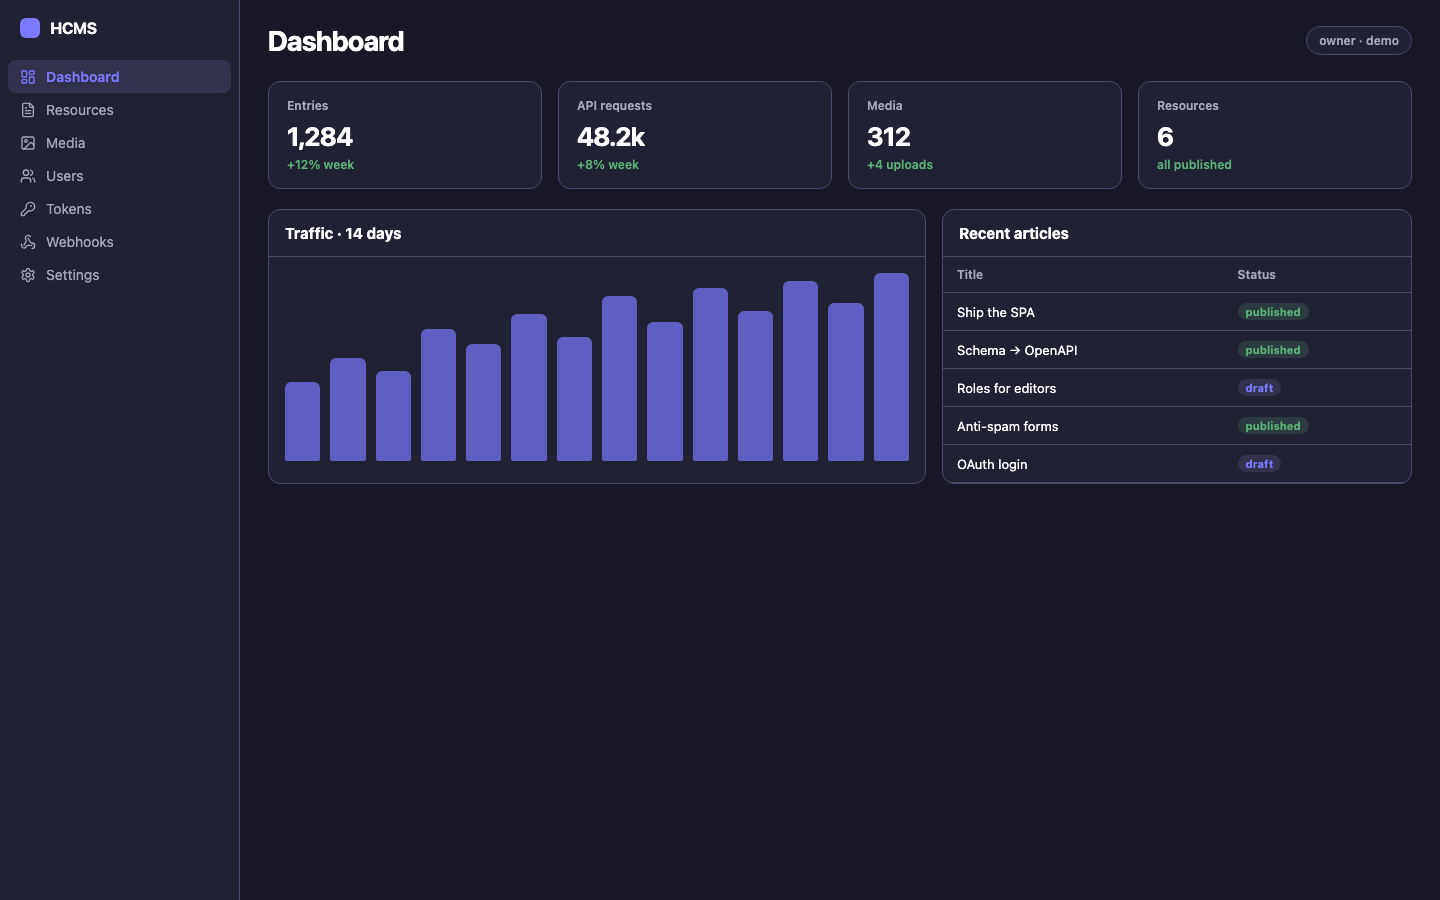
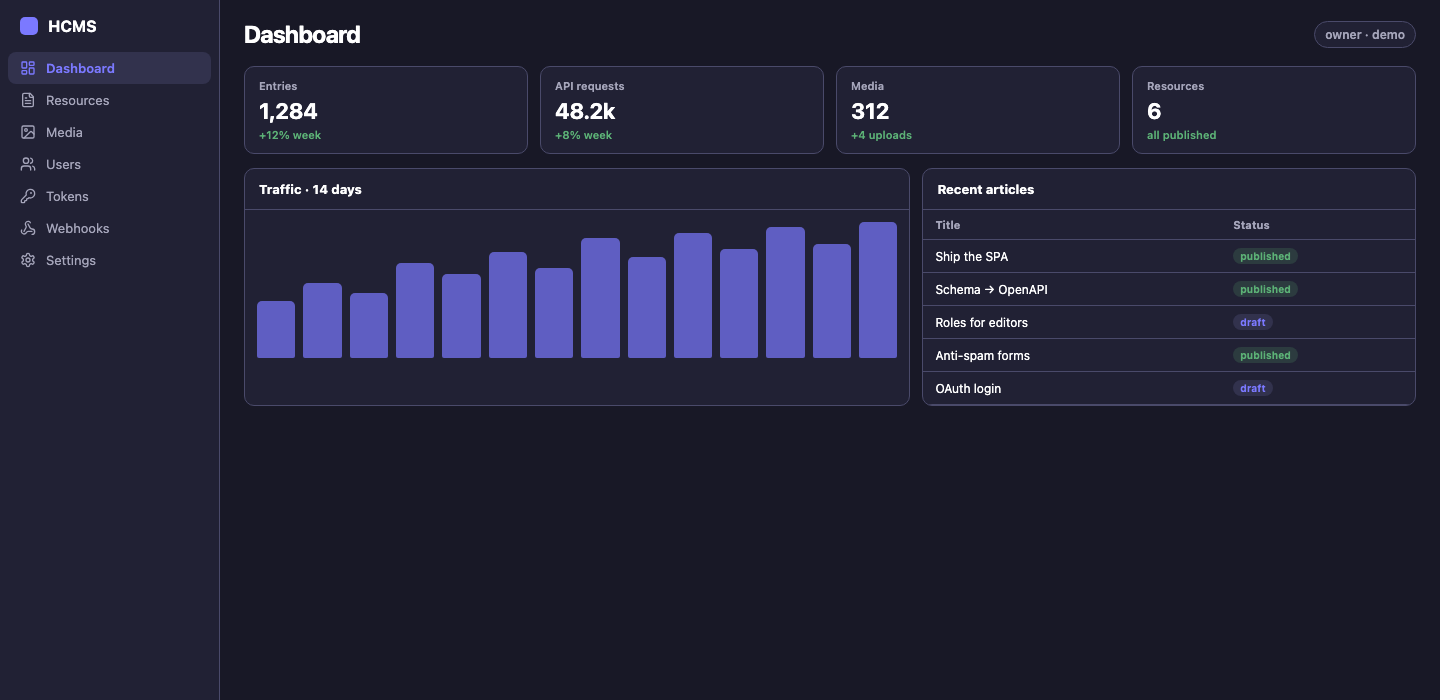
Fix landing hero screenshot aspect ratio on varied viewports.

diff --git a/landing/styles.css b/landing/styles.css
@@ -263,6 +263,7 @@ img {
 .hero-frame {
   position: relative;
   z-index: 1;
+  display: grid;
   margin: 0;
   border: 1px solid var(--border);
   border-radius: 14px;
@@ -271,28 +272,22 @@ img {
   box-shadow:
     0 24px 60px rgb(50 50 77 / 0.14),
     0 2px 0 rgb(255 255 255 / 0.6) inset;
-  aspect-ratio: 1440 / 900;
   animation: hero-float 7s ease-in-out 1s infinite;
 }
 
 .hero-shot {
-  position: absolute;
-  inset: 0;
+  grid-area: 1 / 1;
+  display: block;
   width: 100%;
-  height: 100%;
-  object-fit: cover;
-  object-position: top left;
+  height: auto;
+  max-width: 100%;
   opacity: 0;
-  transform: scale(1.02);
-  transition:
-    opacity 0.85s ease,
-    transform 0.85s ease;
+  transition: opacity 0.85s ease;
   pointer-events: none;
 }
 
 .hero-shot.is-active {
   opacity: 1;
-  transform: scale(1);
   z-index: 1;
 }
 
